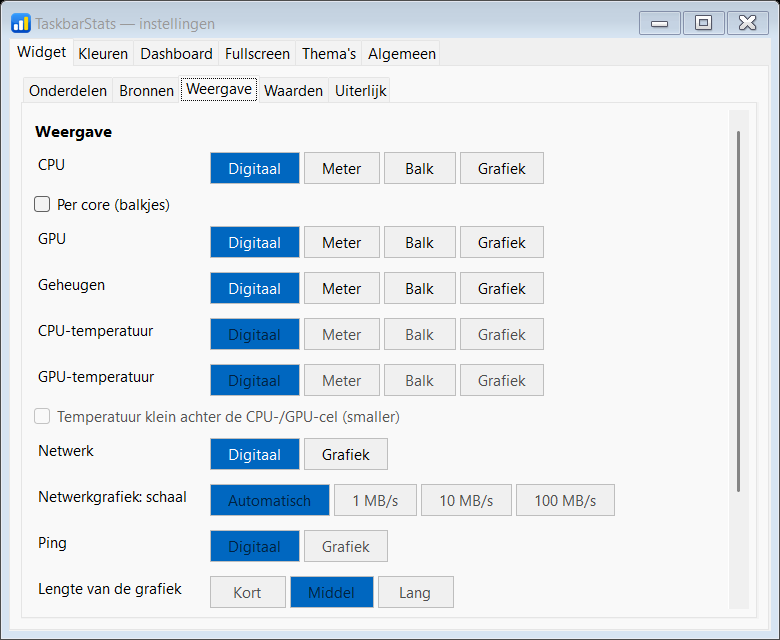
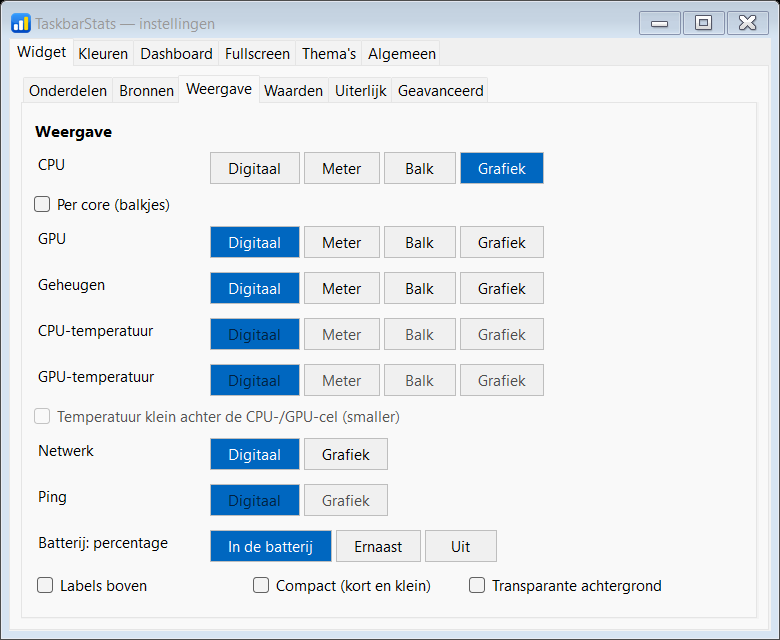
Instellingen: subtabblad Geavanceerd (grafieklengte/-periode, netwerkschaal, CPU-meting, verversnelheid)

diff --git a/src/SettingsForm.cs b/src/SettingsForm.cs
@@ -360,6 +360,8 @@ public sealed partial class SettingsForm : Form
         tab.Controls.Clear();
         tab.Controls.Add(sub);
         p = SubPage(sub, Loc.Pick("Onderdelen", "Components"));
+        var advMeasure = new List<Control>();   // rijen voor het subtabblad Geavanceerd
+        var advGraph = new List<Control>();
 
         p.Controls.Add(Head(Loc.S("components")));
         p.Controls.Add(Grid(
@@ -391,7 +393,7 @@ public sealed partial class SettingsForm : Form
             (Loc.Pick("Zoals Taakbeheer", "Like Task Manager"), false),
             (Loc.Pick("Incl. turbo (hoger)", "Incl. turbo (higher)"), true),
         }, () => _c.CpuUtility, v => _c.CpuUtility = v, 120);
-        p.Controls.Add(Row(Loc.Pick("CPU-meting", "CPU measure"), cpuMode));
+        advMeasure.Add(Row(Loc.Pick("CPU-meting", "CPU measure"), cpuMode));
 
         var adapters = new ComboBox { DropDownStyle = ComboBoxStyle.DropDownList, Width = 380 };
         adapters.Items.Add(Loc.S("allAdapters"));
@@ -467,7 +469,7 @@ public sealed partial class SettingsForm : Form
             gpuTempStyle.Enabled = _c.ShowGpuTemp && !(_c.TempMerge && _c.ShowGpu);
             tempMerge.Enabled = _c.ShowCpuTemp || _c.ShowGpuTemp;
         });
-        GraphSettings(p);
+        advGraph.AddRange(GraphSettings(p));
         var batt = Seg(new (string, BatteryPercentMode)[]
         {
             (Loc.Pick("In de batterij", "Inside"), BatteryPercentMode.Inside),
@@ -511,7 +513,7 @@ public sealed partial class SettingsForm : Form
         p.Controls.Add(Row(Loc.Pick("Lettertype", "Font"), fontRow));
 
         var intervals = new (string, int)[] { ("0,1 s", 100), ("0,2 s", 200), ("0,25 s", 250), ("0,5 s", 500), ("1 s", 1000), ("2 s", 2000) };
-        p.Controls.Add(Row(Loc.S("interval"), Seg(intervals, () => _c.RefreshMs, v => _c.RefreshMs = v, 56)));
+        advMeasure.Add(Row(Loc.S("interval"), Seg(intervals, () => _c.RefreshMs, v => _c.RefreshMs = v, 56)));
         BgSection(p, () => _c.WidgetBgImage, v => _c.WidgetBgImage = v, () => _c.WidgetBgMode, v => _c.WidgetBgMode = v, () => _c.WidgetBgOpacity, v => _c.WidgetBgOpacity = v);
 
         // Wat geen effect heeft, uitschakelen.
@@ -525,6 +527,13 @@ public sealed partial class SettingsForm : Form
             batt.Enabled = _c.ShowBattery;
             labels.Enabled = !_c.Compact;
         });
+        // Geavanceerd: opties voor wie het precies wil instellen; de standaardwaarden zijn meestal goed.
+        var adv = SubPage(sub, Loc.Pick("Geavanceerd", "Advanced"));
+        adv.Controls.Add(Note(Loc.Pick("Opties voor wie het precies wil instellen. De standaardwaarden zijn meestal goed.", "Options for fine-tuning. The defaults are usually fine.")));
+        adv.Controls.Add(Head(Loc.Pick("Grafiek", "Graph")));
+        foreach (var c in advGraph) adv.Controls.Add(c);
+        adv.Controls.Add(Head(Loc.Pick("Meting", "Measuring")));
+        foreach (var c in advMeasure) adv.Controls.Add(c);
         sub.SelectedIndex = Math.Clamp(_widgetSub, 0, sub.TabPages.Count - 1);
         sub.SelectedIndexChanged += (_, _) => { if (!_building) _widgetSub = sub.SelectedIndex; };
         return tab;

diff --git a/src/SettingsForm.Graph.cs b/src/SettingsForm.Graph.cs
@@ -3,8 +3,10 @@ namespace TaskbarStats;
 // Instellingen voor de mini-grafiek in het widget (uitbreiding van het gedeelte "Weergave" op tabblad Widget).
 public sealed partial class SettingsForm
 {
-    private void GraphSettings(FlowLayoutPanel p)
+    // Geeft de geavanceerde rijen (lengte, periode, schaal) terug; die staan op het subtabblad Geavanceerd.
+    private List<Control> GraphSettings(FlowLayoutPanel p)
     {
+        var adv = new List<Control>();
         var two = new (string, TextGraphStyle)[] { (Loc.S("digital"), TextGraphStyle.Digital), (Loc.Pick("Grafiek", "Graph"), TextGraphStyle.Graph) };
         var netStyle = Seg(two, () => _c.NetStyle, v => _c.NetStyle = v);
         var pingStyle = Seg(two, () => _c.PingStyle, v => _c.PingStyle = v);
@@ -14,14 +16,14 @@ public sealed partial class SettingsForm
             (Loc.Pick("Automatisch", "Automatic"), 0), ("1 MB/s", 1), ("10 MB/s", 10), ("100 MB/s", 100),
         }, () => _c.NetGraphMaxMBps, v => _c.NetGraphMaxMBps = v, 56);
         p.Controls.Add(Row(Loc.Pick("Netwerk", "Network"), netStyle));
-        p.Controls.Add(Row(Loc.Pick("Netwerkgrafiek: schaal", "Network graph: scale"), netMax));
+        adv.Add(Row(Loc.Pick("Netwerkgrafiek: schaal", "Network graph: scale"), netMax));
         p.Controls.Add(Row("Ping", pingStyle));
         var len = Seg(new (string, GraphLen)[]
         {
             (Loc.Pick("Kort", "Short"), GraphLen.Short), (Loc.Pick("Middel", "Medium"), GraphLen.Medium), (Loc.Pick("Lang", "Long"), GraphLen.Long),
         }, () => _c.GraphLength, v => _c.GraphLength = v, 76);
-        p.Controls.Add(Row(Loc.Pick("Lengte van de grafiek", "Graph length"), len));
-        p.Controls.Add(Row(Loc.Pick("Periode: de laatste", "Period: the last"), secs));
+        adv.Add(Row(Loc.Pick("Lengte van de grafiek", "Graph length"), len));
+        adv.Add(Row(Loc.Pick("Periode: de laatste", "Period: the last"), secs));
         Dep(() =>
         {
             netStyle.Enabled = _c.ShowNetUp || _c.ShowNetDown;
@@ -36,5 +38,6 @@ public sealed partial class SettingsForm
             bool ping = _c.ShowPing && _c.PingStyle == TextGraphStyle.Graph;
             secs.Enabled = len.Enabled = cpu || gpu || mem || ct || gt || net || ping;
         });
+        return adv;
     }
 }

diff --git a/README.md b/README.md
@@ -18,6 +18,7 @@ overeenkomen met Task Manager. Daarnaast een groot bureaublad-dashboard en een f
 ![Menu](docs/screenshots/menu.png)
 ![Instellingen: widget](docs/screenshots/settings-widget.png)
 ![Instellingen: widget, subtabblad Weergave](docs/screenshots/settings-widget-weergave.png)
+![Instellingen: widget, subtabblad Geavanceerd](docs/screenshots/settings-widget-geavanceerd.png)
 ![Instellingen: dashboard met volgorde](docs/screenshots/settings-dashboard.png)
 ![Instellingen: fullscreen met voorbeeld van de indeling](docs/screenshots/settings-fullscreen.png)
 ![Instellingen: algemeen](docs/screenshots/settings-general.png)
@@ -130,7 +131,7 @@ bij loslaten bewaard); in de instellingen (tab Algemeen) en in het menu staat "V
 
 - **Instellingen…** (vet, bovenaan) opent het instellingenvenster met tabbladen. Elke wijziging wordt direct toegepast en bewaard;
   bedieningselementen die door een andere keuze geen effect hebben, worden uitgeschakeld:
-  - *Widget*: onderdelen (CPU, GPU, geheugen, up-/download, batterij, schijf, temperaturen) met hun **bronnen** (welke GPU of automatisch, welke
+  - *Widget*: onderdelen (CPU, GPU, geheugen, up-/download, batterij, schijf, temperaturen) met hun **bronnen** (welke GPU of automatisch, welke Het tabblad is verdeeld in subtabs: *Onderdelen*, *Bronnen*, *Weergave*, *Waarden*, *Uiterlijk* en *Geavanceerd* (lengte en periode van de grafiek, netwerkgrafiek-schaal, CPU-meting en verversnelheid).
     netwerkadapter of alle, schijfruimte uit/totaal/alle apart/één schijf, netwerkschijven meenemen), weergave per onderdeel (digitaal, meter of balk;
     CPU per core), batterijpercentage, labels boven, compact, transparant, hoogte, lettertype/-grootte en ververssnelheid.
     De **volgorde van de onderdelen in het widget** (netwerk, schijf-I/O, CPU, GPU, geheugen, batterij, schijfruimte, temperaturen) stel je in met de pijlknoppen; uitgeschakelde onderdelen staan er met "(uit)" bij. De volgorde zit ook in thema's.
